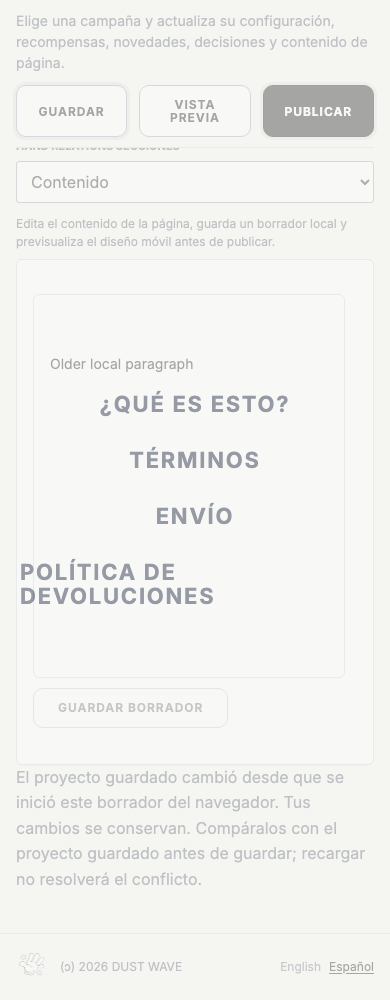
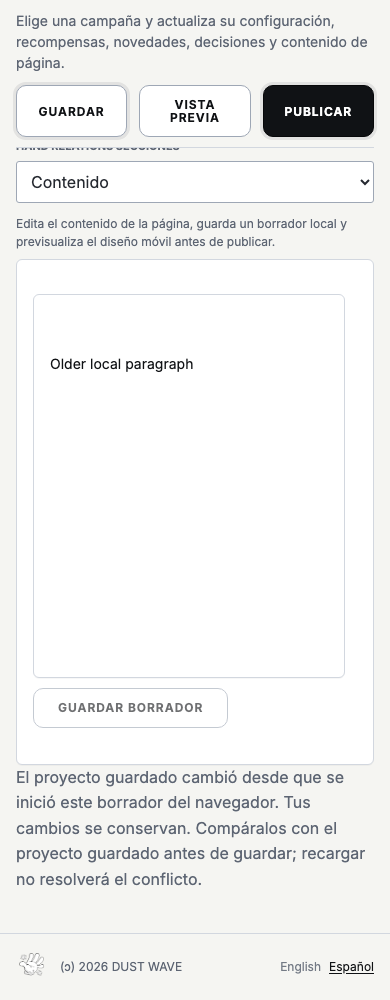
Stabilize localized draft conflict screenshots

diff --git a/tests/e2e/admin-dashboard.spec.ts b/tests/e2e/admin-dashboard.spec.ts
@@ -3098,6 +3098,11 @@ test.describe('Admin Dashboard', () => {
       for (const width of language === 'es' ? [390] : [1280, 834, 390]) {
         await page.setViewportSize({ width, height: 1000 });
         await page.locator('#admin-content-status').scrollIntoViewIfNeeded();
+        await page.evaluate(async () => {
+          await document.fonts.ready;
+          await Promise.all(document.getAnimations().filter(animation =>
+            animation.effect?.getTiming().iterations !== Infinity).map(animation => animation.finished.catch(() => {})));
+        });
         await page.screenshot({ path: `tmp/campaign-draft-conflict-${language}-${width}.png` });
       }
       await page.setViewportSize({ width: 1280, height: 720 });

diff --git a/docs/release-evidence/2026-10-20-human-error-content-investigation.md b/docs/release-evidence/2026-10-20-human-error-content-investigation.md
@@ -174,7 +174,8 @@ protection applies.
   passed. No local credentials were loaded into the isolated worktree.
 - The complete pre-merge gate runs in GitHub's isolated environment because
   local ports 4000 and 8787 belong to an existing Podman stack.
-- Complete hosted pre-merge results are recorded after completion.
+- Hosted pre-merge status is tracked on the pull request; no application
+  deployment is claimed by this record.
 
 Synthetic conflict-state screenshots:
 [desktop](2026-10-20-draft-conflict-en-1280.png),
